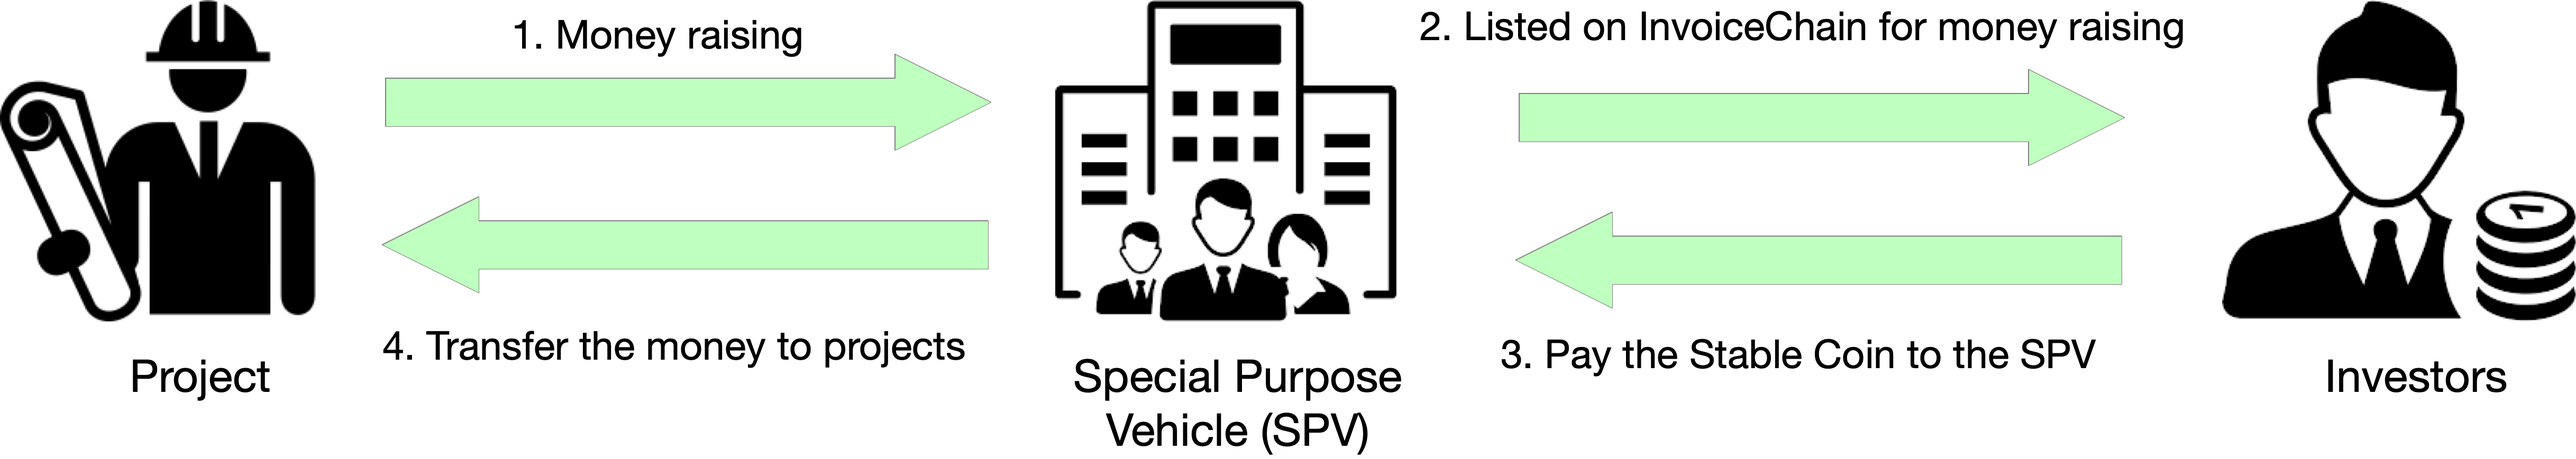
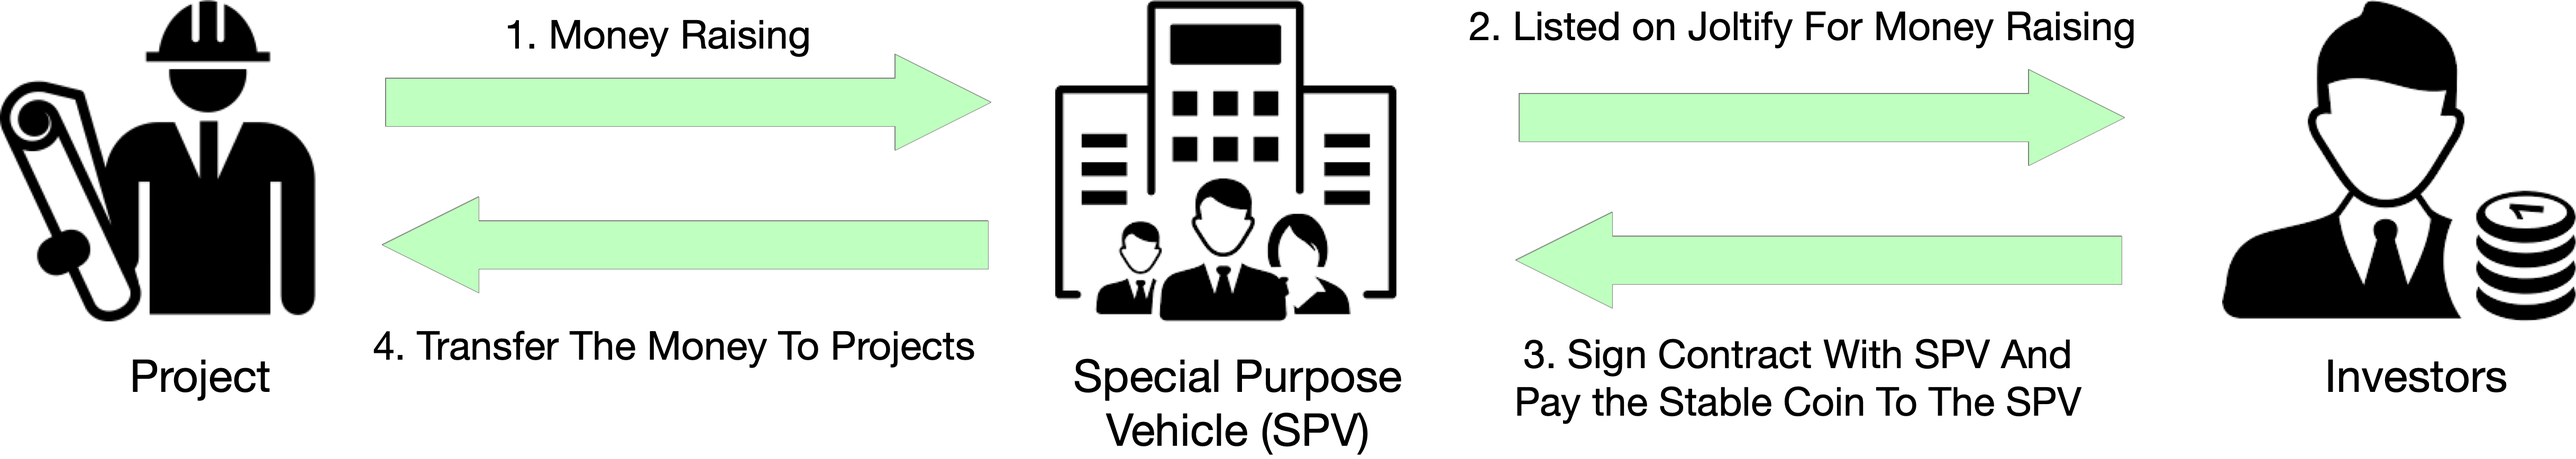
GitBook: [#13] WIP

diff --git a/how-joltify-lending-works/business-model-in-joltify/README.md b/how-joltify-lending-works/business-model-in-joltify/README.md
@@ -1,0 +1,49 @@
+# Business model in Joltify
+
+This chapter, we explain how the projector tokenize their real world finance requirement and how the investors invest their money and get the fix APY from the projects.
+
+
+
+## Capital Raise & Lending
+
+
+
+![Fig ](../../.gitbook/assets/put\_on\_chain.png)
+
+
+
+We give a high-level description of how the verified investors lends the money to the project. The details can be found here XXX.
+
+1. In order to utilise the liquidity in the crypto world, the project needs to sign a contract with the SPV to agree on the amount of the money it wants to raise, as well as the interest the project needs to pay and the length of the lending.&#x20;
+2. The SPV will list a lending request on Joltify chain stating the details of this project. &#x20;
+3. During a specific time window,  the verified investors sign the contract with the SPV to offer the liquidity for this project.
+4. Tokenized document is minted and transfer to the investor.
+
+
+
+
+
+### Project Repayment
+
+![Fig 2](../../.gitbook/assets/repayment.png)
+
+We give a high-level description of how the project repay the money  back to the investor. The details can be found here XXX.
+
+1. The project repay the money borrow from the SPV and the contract between the project and the SPV is fulfilled.
+2. The SPV will pay the investor in full and the contract between the SPV and the investors are fulfilled.
+
+
+
+
+
+### NFT ownership transfer
+
+![Fig 3](../../.gitbook/assets/re\_buy.png)
+
+We give a high-level description of how the project repay the money  back to the investor. The details can be found here XXX.
+
+1. During a specific time window, the investor can sell back the NFT(tokenized documents) back to the SPV.
+2. The SPV sends back the table coin and the contract between the investor 1 and the SPV is fullfilled.
+3. The NFT is listed on the Joltify chain and the new investor can access to the listed NFT.
+4. The new investor sign the contract with the SPV and pay the stable coin to the SPV to purchase the NFT.
+

diff --git a/SUMMARY.md b/SUMMARY.md
@@ -2,18 +2,15 @@
 
 * [Introduction to Joltify](README.md)
 
-## The Basics
+## How Joltify lending works
 
-* [Background](the-basics/background.md)
-* [Business model in Joltify](the-basics/business-model-in-joltify/README.md)
-  * [Tokenize Document](the-basics/business-model-in-joltify/tokenize-document.md)
-* [The GitBook editor](the-basics/the-gitbook-editor.md)
-* [Live edit and locked edits](the-basics/live-edit-and-locked-edits.md)
-* [Change requests](the-basics/change-requests.md)
+* [Background](how-joltify-lending-works/background.md)
+* [Business model in Joltify](how-joltify-lending-works/business-model-in-joltify/README.md)
+  * [Tokenize Document](how-joltify-lending-works/business-model-in-joltify/tokenize-document.md)
 
-## Publishing
+## Joltify Techs
 
-* [Publishing your content](publishing/publishing-your-content.md)
+* [Publishing your content](joltify-techs/publishing-your-content.md)
 
 ## Tips and tricks
 
